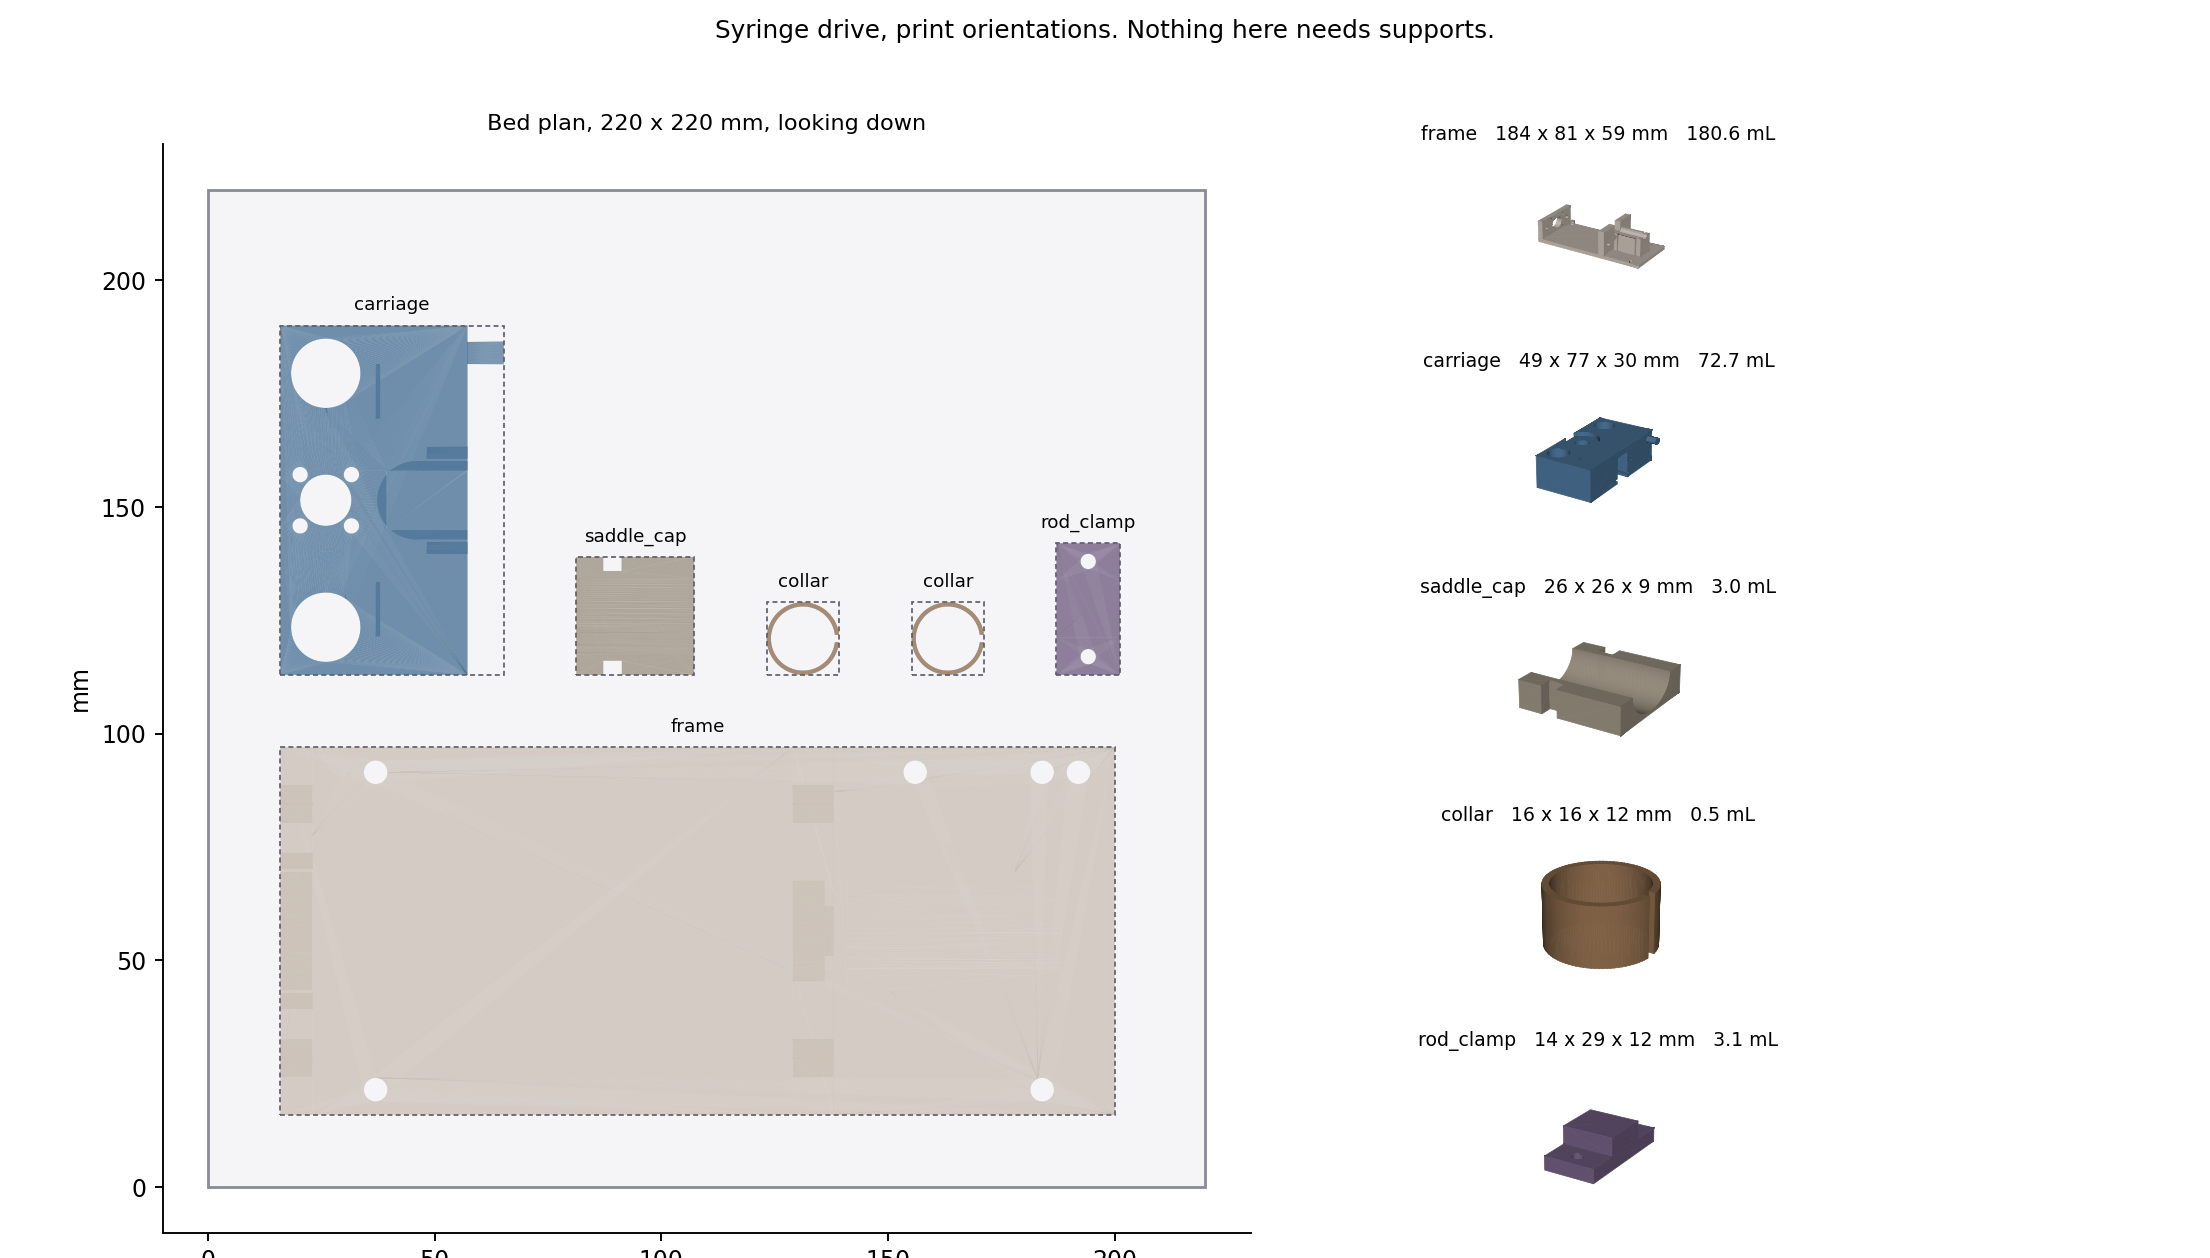
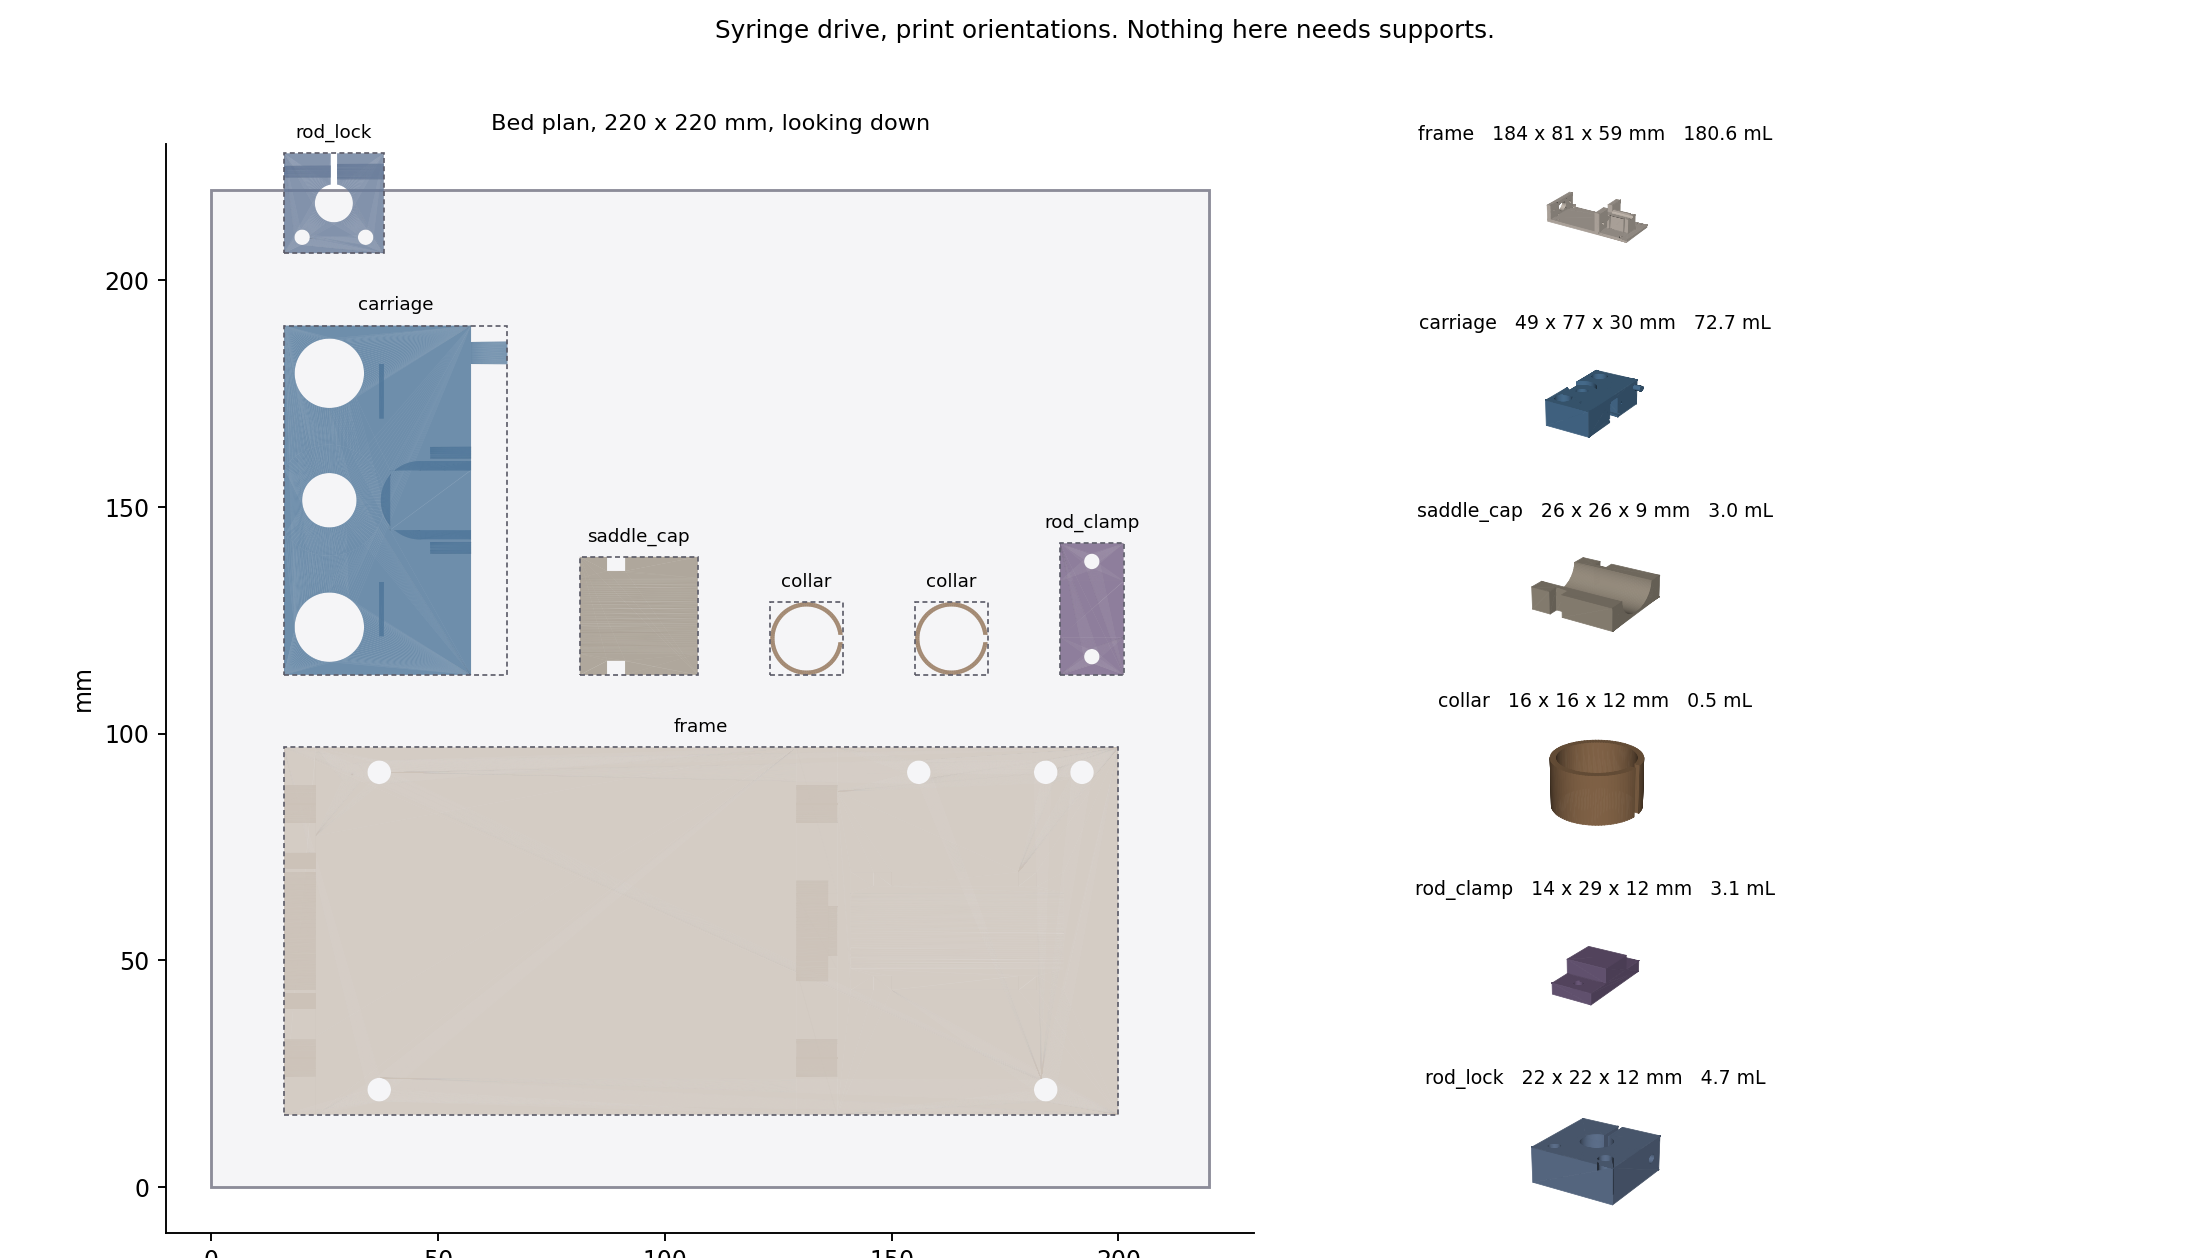
rod_lock was not in build(), and nothing was watching that gap
The part existed, printed, rendered and passed its own clearance checks
while being absent from the registry, so print_plate crashed on a KeyError
and the BOM would have shipped a line nothing could slice.

A function is not a part until build() says so. Two checks now stand across
that seam: every part in build() has a print orientation, and every
orientation names a part that exists. Both directions, because an orphan in
ORIENT is as wrong as a missing entry and fails later and more confusingly.

Pair slices at 29m30s, 8 g.

diff --git a/flow/check_drive.py b/flow/check_drive.py
@@ -685,3 +685,24 @@ check("the collar still grips the barrel",
       0.05 <= _grip <= 0.30,
       "%.2f mm of interference, designed for %.2f. It is a split ring under "
       "zip ties, so this range is all usable" % (_grip, S.COLLAR_GRIP))
+
+
+# ------------------------------------------------- the registry is the list
+# rod_lock() existed, printed, rendered and passed its own checks while being
+# absent from build(), so print_plate crashed and the BOM would have shipped
+# a part nothing could slice. A function is not a part until the registry
+# says so, and nothing was watching the gap between the two.
+import print_plate as _PP
+_built = set(S.build())
+_oriented = set(n for n, _a, _c in _PP.ORIENT)
+check("every part in build() can be oriented for printing",
+      _oriented >= _built - {"fit_coupon"},
+      "missing from print_plate.ORIENT: %s"
+      % ", ".join(sorted(_built - {"fit_coupon"} - _oriented))
+      if _built - {"fit_coupon"} - _oriented else
+      "%d parts, all with a print orientation" % len(_oriented))
+check("every part print_plate orients actually exists",
+      _built >= _oriented,
+      "in ORIENT but not in build(): %s"
+      % ", ".join(sorted(_oriented - _built))
+      if _oriented - _built else "no orphans")

diff --git a/flow/syringe_drive.py b/flow/syringe_drive.py
@@ -824,7 +824,7 @@ def syringe():
 def build():
     return {"frame": frame(), "carriage": carriage(),
             "saddle_cap": saddle_cap(), "collar": collar(),
-            "rod_clamp": rod_clamp(),
+            "rod_clamp": rod_clamp(), "rod_lock": rod_lock(),
             "fit_coupon": fit_coupon()}
 
 
